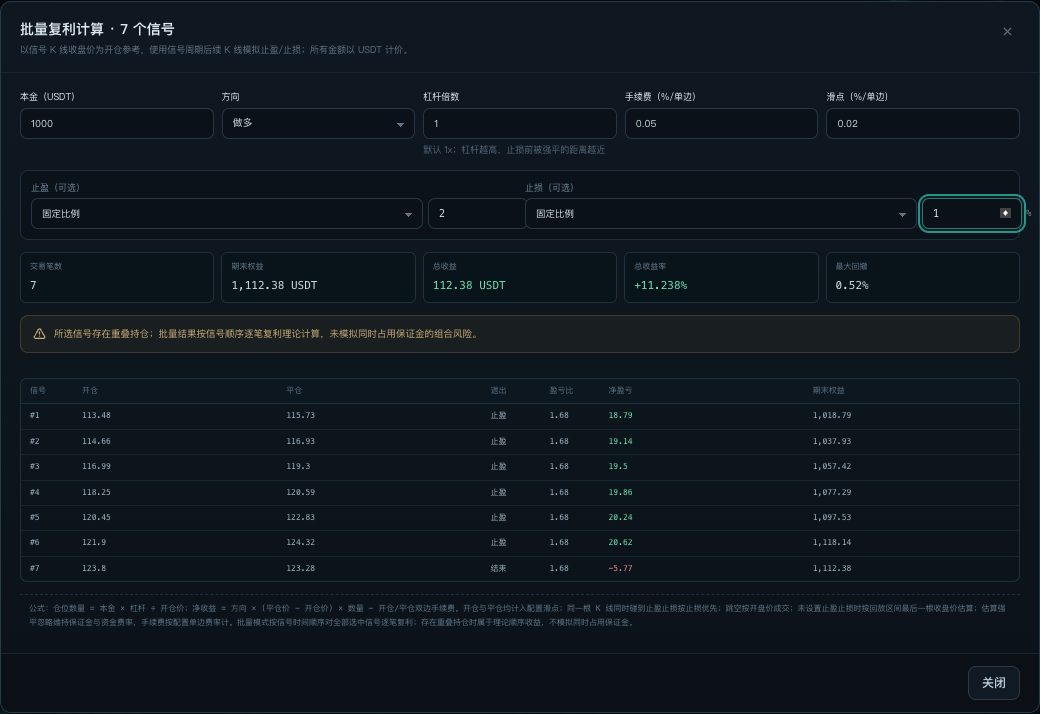
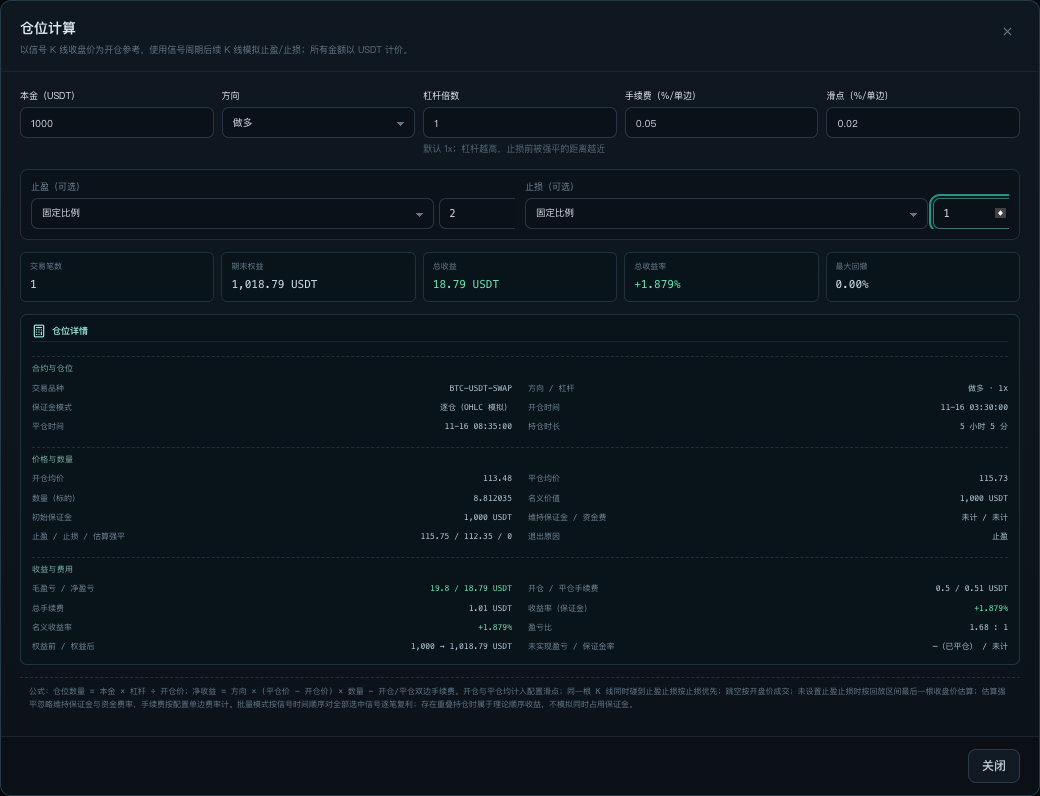
feat(positions): expose complete exchange-style position details

diff --git a/src/web/components/PositionCalculatorModal.tsx b/src/web/components/PositionCalculatorModal.tsx
@@ -40,6 +40,32 @@ function pct(value: number | null | undefined): string {
   return `${value >= 0 ? '+' : ''}${value.toFixed(3)}%`;
 }
 
+function exitLabel(reason: string): string {
+  return reason === 'target'
+    ? '止盈'
+    : reason === 'stop'
+      ? '止损'
+      : reason === 'liquidation'
+        ? '强平'
+        : reason === 'no-data'
+          ? '无后续K线'
+          : '区间结束';
+}
+
+function durationLabel(durationMs: number): string {
+  const seconds = Math.max(0, Math.round(durationMs / 1000));
+  if (seconds < 60) return `${seconds} 秒`;
+  const hours = Math.floor(seconds / 3600);
+  const minutes = Math.floor((seconds % 3600) / 60);
+  const rest = seconds % 60;
+  if (hours > 0) return `${hours} 小时${minutes ? ` ${minutes} 分` : ''}`;
+  return `${minutes} 分${rest ? ` ${rest} 秒` : ''}`;
+}
+
+function directionLabel(direction: 'long' | 'short'): string {
+  return direction === 'long' ? '做多' : '做空';
+}
+
 function priceSeriesOptions(): { key: SeriesKey; label: string }[] {
   return (Object.keys(SERIES_CATALOG) as SeriesKey[])
     .filter((series) => SERIES_CATALOG[series].unit === 'price')
@@ -209,29 +235,63 @@ export function PositionCalculatorModal({
               <div className="position-skipped">跳过 {calculation.skipped.length} 条：{calculation.skipped.map((item) => `#${item.index + 1}${item.reason === 'overlap' ? '（重叠）' : '（权益不足）'}`).join('、')}</div>
             ) : null}
 
-            {calculation.trades.length === 1 && !isBatch ? (
-              <div className="position-single" data-testid="position-calc-single">
-                <div className="position-single-head"><Calculator size={14} /> 单笔结果</div>
-                <div className="position-kv"><span>开仓 / 平仓</span><strong>{money(calculation.trades[0].entryPrice)} → {money(calculation.trades[0].exitPrice)}</strong></div>
-                <div className="position-kv"><span>数量 / 名义仓位</span><strong>{formatNumber(calculation.trades[0].quantity, 6)} / {money(calculation.trades[0].notional)} USDT</strong></div>
-                <div className="position-kv"><span>退出原因</span><strong>{calculation.trades[0].exitReason === 'target' ? '止盈' : calculation.trades[0].exitReason === 'stop' ? '止损' : calculation.trades[0].exitReason === 'liquidation' ? '强平' : calculation.trades[0].exitReason === 'no-data' ? '无后续K线' : '区间结束'}</strong></div>
-                <div className="position-kv"><span>毛盈亏 / 手续费</span><strong>{money(calculation.trades[0].grossPnl)} / {money(calculation.trades[0].fees)} USDT</strong></div>
-                <div className="position-kv"><span>净盈亏 / 收益率</span><strong className={calculation.trades[0].netPnl >= 0 ? 'positive' : 'negative'}>{money(calculation.trades[0].netPnl)} USDT / {pct(calculation.trades[0].roiPct)}</strong></div>
-                <div className="position-kv"><span>止盈 / 止损 / 估算强平</span><strong>{money(calculation.trades[0].targetPrice)} / {money(calculation.trades[0].stopPrice)} / {money(calculation.trades[0].liquidationPrice)}</strong></div>
-                <div className="position-kv"><span>盈亏比</span><strong>{calculation.trades[0].riskReward === null ? '—' : `${calculation.trades[0].riskReward.toFixed(2)} : 1`}</strong></div>
-                <div className="position-kv"><span>平仓时间</span><strong>{formatDateTime(calculation.trades[0].exitAt)}</strong></div>
-              </div>
-            ) : calculation.trades.length ? (
+            {calculation.trades.length === 1 && !isBatch ? (() => {
+              const trade = calculation.trades[0];
+              return (
+                <div className="position-single" data-testid="position-calc-single">
+                  <div className="position-single-head"><Calculator size={14} /> 仓位详情</div>
+                  <div className="position-single-section">合约与仓位</div>
+                  <div className="position-kv"><span>交易品种</span><strong>{trade.symbol || '—'}</strong></div>
+                  <div className="position-kv"><span>方向 / 杠杆</span><strong>{directionLabel(trade.direction)} · {trade.leverage}x</strong></div>
+                  <div className="position-kv"><span>保证金模式</span><strong>逐仓（OHLC 模拟）</strong></div>
+                  <div className="position-kv"><span>开仓时间</span><strong>{formatDateTime(trade.entryAt)}</strong></div>
+                  <div className="position-kv"><span>平仓时间</span><strong>{formatDateTime(trade.exitAt)}</strong></div>
+                  <div className="position-kv"><span>持仓时长</span><strong>{durationLabel(trade.durationMs)}</strong></div>
+
+                  <div className="position-single-section">价格与数量</div>
+                  <div className="position-kv"><span>开仓均价</span><strong>{money(trade.entryPrice)}</strong></div>
+                  <div className="position-kv"><span>平仓均价</span><strong>{money(trade.exitPrice)}</strong></div>
+                  <div className="position-kv"><span>数量（标的）</span><strong>{formatNumber(trade.quantity, 6)}</strong></div>
+                  <div className="position-kv"><span>标记价格 / 订单类型</span><strong>—（已平仓） / 市价（模拟）</strong></div>
+                  <div className="position-kv"><span>名义价值</span><strong>{money(trade.notional)} USDT</strong></div>
+                  <div className="position-kv"><span>初始保证金</span><strong>{money(trade.initialMargin)} USDT</strong></div>
+                  <div className="position-kv"><span>维持保证金 / 资金费</span><strong>{trade.maintenanceMargin === null ? '未计' : money(trade.maintenanceMargin)} / {trade.fundingFee === null ? '未计' : money(trade.fundingFee)}</strong></div>
+                  <div className="position-kv"><span>止盈 / 止损 / 估算强平</span><strong>{money(trade.targetPrice)} / {money(trade.stopPrice)} / {money(trade.liquidationPrice)}</strong></div>
+                  <div className="position-kv"><span>退出原因</span><strong>{exitLabel(trade.exitReason)}</strong></div>
+
+                  <div className="position-single-section">收益与费用</div>
+                  <div className="position-kv"><span>毛盈亏 / 净盈亏</span><strong className={trade.netPnl >= 0 ? 'positive' : 'negative'}>{money(trade.grossPnl)} / {money(trade.netPnl)} USDT</strong></div>
+                  <div className="position-kv"><span>开仓 / 平仓手续费</span><strong>{money(trade.openFee)} / {money(trade.closeFee)} USDT</strong></div>
+                  <div className="position-kv"><span>总手续费</span><strong>{money(trade.fees)} USDT</strong></div>
+                  <div className="position-kv"><span>收益率（保证金）</span><strong className={trade.roiPct >= 0 ? 'positive' : 'negative'}>{pct(trade.roiPct)}</strong></div>
+                  <div className="position-kv"><span>名义收益率</span><strong className={trade.pnlOnNotionalPct >= 0 ? 'positive' : 'negative'}>{pct(trade.pnlOnNotionalPct)}</strong></div>
+                  <div className="position-kv"><span>盈亏比</span><strong>{trade.riskReward === null ? '—' : `${trade.riskReward.toFixed(2)} : 1`}</strong></div>
+                  <div className="position-kv"><span>权益前 / 权益后</span><strong>{money(trade.equityBefore)} → {money(trade.equityAfter)} USDT</strong></div>
+                  <div className="position-kv"><span>未实现盈亏 / 保证金率</span><strong>—（已平仓） / 未计</strong></div>
+                </div>
+              );
+            })() : calculation.trades.length ? (
+
               <div className="position-trade-table">
-                <div className="position-trade-head"><span>信号</span><span>开仓</span><span>平仓</span><span>退出</span><span>盈亏比</span><span>净盈亏</span><span>期末权益</span></div>
+                <div className="position-trade-head">
+                  <span>信号</span><span>方向/杠杆</span><span>开仓时间</span><span>平仓时间</span>
+                  <span>开仓价</span><span>平仓价</span><span>数量</span><span>名义</span>
+                  <span>手续费</span><span>净盈亏</span><span>收益率</span><span>强平价</span><span>期末权益</span>
+                </div>
                 {calculation.trades.map((trade) => (
                   <div className="position-trade-row" key={`${trade.index}-${trade.triggerAt}`}>
                     <span>#{trade.index + 1}</span>
+                    <span>{directionLabel(trade.direction)} {trade.leverage}x</span>
+                    <span>{formatDateTime(trade.entryAt)}</span>
+                    <span>{formatDateTime(trade.exitAt)}</span>
                     <span>{money(trade.entryPrice)}</span>
                     <span>{money(trade.exitPrice)}</span>
-                    <span>{trade.exitReason === 'target' ? '止盈' : trade.exitReason === 'stop' ? '止损' : trade.exitReason === 'liquidation' ? '强平' : trade.exitReason === 'no-data' ? '无K线' : '结束'}</span>
-                    <span>{trade.riskReward === null ? '—' : `${trade.riskReward.toFixed(2)}`}</span>
+                    <span>{formatNumber(trade.quantity, 6)}</span>
+                    <span>{money(trade.notional)}</span>
+                    <span>{money(trade.fees)}</span>
                     <span className={trade.netPnl >= 0 ? 'positive' : 'negative'}>{money(trade.netPnl)}</span>
+                    <span className={trade.roiPct >= 0 ? 'positive' : 'negative'}>{pct(trade.roiPct)}</span>
+                    <span>{money(trade.liquidationPrice)}</span>
                     <span>{money(trade.equityAfter)}</span>
                   </div>
                 ))}

diff --git a/src/web/app.css b/src/web/app.css
@@ -564,14 +564,14 @@ h1,h2,h3,p{margin-top:0}
 .position-config-grid{display:grid;grid-template-columns:repeat(5,minmax(0,1fr));gap:8px}
 .position-config-grid .form-field{font-size:9px;gap:4px}
 .position-config-grid .input,.position-config-grid .select{height:31px;font-size:10px;min-width:0;width:100%}
-.position-exits{display:grid;grid-template-columns:1fr 1fr;gap:10px;padding:10px;border:1px solid #1d303b;border-radius:8px;background:rgba(7,14,20,.45)}
-.position-exit-control{min-width:0}
+.position-exits{display:grid;grid-template-columns:1fr 1fr;gap:10px;padding:10px;border:1px solid #1d303b;border-radius:8px;background:rgba(7,14,20,.45);min-width:0}
+.position-exit-control{min-width:0;overflow:hidden}
 .position-exit-control .form-label{display:block;margin-bottom:4px;font-size:9px;color:#6d8697}
 .position-exit-row{display:flex;align-items:center;gap:5px;min-width:0}
 .position-exit-row .select{height:31px;font-size:9.5px;min-width:0;flex:1 1 auto}
-.position-exit-row .input{height:31px;width:120px;font-size:10px}
+.position-exit-row .input{height:31px;width:84px;flex:0 0 84px;font-size:10px}
 .position-input-suffix{display:flex;align-items:center;gap:4px;color:#7993a3;font-family:var(--mono);font-size:9px;min-width:0}
-.position-input-suffix .input{width:100px}
+.position-input-suffix .input{width:84px}
 .position-loading{display:flex;align-items:center;gap:6px;color:#9b825d;font-family:var(--mono);font-size:9px}
 .position-summary{display:grid;grid-template-columns:repeat(5,minmax(0,1fr));gap:7px}
 .position-summary>div{display:flex;flex-direction:column;gap:3px;padding:8px 9px;border:1px solid #1e323e;border-radius:6px;background:#09131a}
@@ -580,10 +580,12 @@ h1,h2,h3,p{margin-top:0}
 .positive{color:#6de0ad!important}.negative{color:#f08b92!important}
 .position-single{border:1px solid #1e323e;border-radius:7px;background:#09131a;padding:9px 11px;display:grid;grid-template-columns:1fr 1fr;gap:5px 16px}
 .position-single-head{grid-column:1/-1;display:flex;align-items:center;gap:6px;color:#9fe8dd;font-size:9px;font-weight:550;padding-bottom:3px;border-bottom:1px solid #162832;margin-bottom:2px}
+.position-single-section{grid-column:1/-1;margin:7px 0 1px;color:#7fb3ac;font-family:var(--mono);font-size:8px;letter-spacing:.03em;border-top:1px dashed #1b313c;padding-top:6px}
+.position-single-section:first-of-type{border-top:0;padding-top:0}
 .position-kv{display:flex;justify-content:space-between;gap:9px;font-family:var(--mono);font-size:8px;color:#708899;padding:1px 0}
 .position-kv strong{color:#aec6d3;font-weight:400;text-align:right}
-.position-trade-table{border:1px solid #1e323e;border-radius:7px;overflow:auto;max-height:280px}
-.position-trade-head,.position-trade-row{display:grid;grid-template-columns:45px 1fr 1fr 52px 52px 1fr 1fr;gap:7px;padding:6px 9px;font-family:var(--mono);font-size:8px;align-items:center}
+.position-trade-table{border:1px solid #1e323e;border-radius:7px;overflow:auto;max-height:320px;scrollbar-gutter:stable}
+.position-trade-head,.position-trade-row{display:grid;grid-template-columns:38px 54px 86px 86px 60px 60px 66px 68px 60px 66px 52px 60px 68px;gap:6px;padding:6px 8px;font-family:var(--mono);font-size:7.6px;align-items:center;min-width:880px}
 .position-trade-head{position:sticky;top:0;background:#0c1720;color:#5d7587;border-bottom:1px solid #1b303b}
 .position-trade-row{border-bottom:1px solid #142630;color:#9db3c1}
 .position-trade-row:last-child{border-bottom:0}

diff --git a/src/server/positionCalculator.ts b/src/server/positionCalculator.ts
@@ -151,6 +151,7 @@ function simulateTrade(
   timeframeMs: number,
   endTime: number,
   equityBefore: number,
+  optionsSymbol = '',
 ): PositionTradeResult {
   const direction = config.direction;
   const entryAt = trigger.barCloseTime > 0 ? trigger.barCloseTime : trigger.triggerAt;
@@ -236,7 +237,9 @@ function simulateTrade(
 
   const exitPrice = exitWithSlippage(rawExit, direction, config.slippagePct);
   const grossPnl = direction === 'long' ? (exitPrice - entryPrice) * quantity : (entryPrice - exitPrice) * quantity;
-  const fees = feeAmount(quantity, entryPrice, config.feeRatePct) + feeAmount(quantity, exitPrice, config.feeRatePct);
+  const openFee = feeAmount(quantity, entryPrice, config.feeRatePct);
+  const closeFee = feeAmount(quantity, exitPrice, config.feeRatePct);
+  const fees = openFee + closeFee;
   let netPnl = grossPnl - fees;
   let equityAfter = equityBefore + netPnl;
   if (equityAfter < 0) {
@@ -246,12 +249,20 @@ function simulateTrade(
   }
   return {
     index: 0,
+    symbol: optionsSymbol,
+    direction,
+    leverage: config.leverage,
+    marginMode: 'isolated',
     triggerAt: trigger.triggerAt,
     entryAt,
+    exitAt,
+    durationMs: Math.max(0, exitAt - entryAt),
     entryPrice,
     quantity,
     notional: quantity * entryPrice,
-    exitAt,
+    initialMargin: equityBefore,
+    maintenanceMargin: null,
+    fundingFee: null,
     exitPrice,
     exitReason: reason,
     targetPrice,
@@ -261,9 +272,12 @@ function simulateTrade(
     riskReward,
     liquidationPrice,
     grossPnl,
+    openFee,
+    closeFee,
     fees,
     netPnl,
     roiPct: (netPnl / equityBefore) * 100,
+    pnlOnNotionalPct: quantity * entryPrice > 0 ? (netPnl / (quantity * entryPrice)) * 100 : 0,
     equityBefore,
     equityAfter,
   };
@@ -276,6 +290,7 @@ export function calculatePositions(options: {
   timeframeMs: number;
   endTime: number;
   config: PositionCalculatorConfig;
+  symbol?: string;
 }): PositionCalculationResult {
   const { triggers, candles, config } = options;
   validatePositionConfig(config);
@@ -303,7 +318,7 @@ export function calculatePositions(options: {
       continue;
     }
     if (item.trigger.triggerAt < lastExitAt) hasOverlap = true;
-    const trade = simulateTrade(item.trigger, candles, config, options.timeframeMs, options.endTime, equity);
+    const trade = simulateTrade(item.trigger, candles, config, options.timeframeMs, options.endTime, equity, options.symbol);
     trade.index = item.index;
     trades.push(trade);
     equity = trade.equityAfter;

diff --git a/src/shared/types.ts b/src/shared/types.ts
@@ -506,13 +506,25 @@ export type PositionExitReason = 'target' | 'stop' | 'end' | 'liquidation' | 'no
 
 export interface PositionTradeResult {
   index: number;
+  /** Symbol of the replayed instrument. */
+  symbol: string;
+  direction: PositionDirection;
+  leverage: number;
+  marginMode: 'isolated';
   triggerAt: number;
   entryAt: number;
+  exitAt: number;
+  durationMs: number;
   entryPrice: number;
+  exitPrice: number;
   quantity: number;
   notional: number;
-  exitAt: number;
-  exitPrice: number;
+  /** Allocated margin for this trade. */
+  initialMargin: number;
+  /** Not modelled by this OHLC calculator. */
+  maintenanceMargin: number | null;
+  /** Not modelled by this OHLC calculator. */
+  fundingFee: number | null;
   exitReason: PositionExitReason;
   targetPrice: number | null;
   stopPrice: number | null;
@@ -521,9 +533,14 @@ export interface PositionTradeResult {
   riskReward: number | null;
   liquidationPrice: number;
   grossPnl: number;
+  openFee: number;
+  closeFee: number;
   fees: number;
   netPnl: number;
+  /** Return on allocated margin. */
   roiPct: number;
+  /** Net PnL as a percentage of opening notional. */
+  pnlOnNotionalPct: number;
   equityBefore: number;
   equityAfter: number;
 }

diff --git a/tests/integration/rule-replay.test.ts b/tests/integration/rule-replay.test.ts
@@ -242,6 +242,20 @@ describe('saved rule historical replay', () => {
     expect(one.body.calculation.trades[0].entryPrice).toBeGreaterThan(0);
     expect(Number.isFinite(one.body.calculation.trades[0].netPnl)).toBe(true);
     expect(one.body.calculation.trades[0].equityBefore).toBe(1_000);
+    expect(one.body.calculation.trades[0]).toMatchObject({
+      symbol,
+      direction: 'long',
+      leverage: 5,
+      marginMode: 'isolated',
+      initialMargin: 1_000,
+      maintenanceMargin: null,
+      fundingFee: null,
+    });
+    expect(one.body.calculation.trades[0].entryAt).toBeGreaterThan(0);
+    expect(one.body.calculation.trades[0].exitAt).toBeGreaterThanOrEqual(one.body.calculation.trades[0].entryAt);
+    expect(one.body.calculation.trades[0].durationMs).toBeGreaterThanOrEqual(0);
+    expect(one.body.calculation.trades[0].openFee + one.body.calculation.trades[0].closeFee)
+      .toBeCloseTo(one.body.calculation.trades[0].fees, 8);
 
     const batch = await jsonRequest(runtime.runtime, {
       method: 'POST',

diff --git a/tests/e2e/app.spec.ts b/tests/e2e/app.spec.ts
@@ -506,6 +506,11 @@ test.describe.serial('Market Sentinel system flow', () => {
     await expect(modal.getByText('仓位计算', { exact: true })).toBeVisible();
     await expect(modal.getByTestId('position-calc-summary')).toBeVisible({ timeout: 15_000 });
     await expect(modal.getByTestId('position-calc-single')).toContainText('净盈亏');
+    await expect(modal.getByTestId('position-calc-single')).toContainText('开仓时间');
+    await expect(modal.getByTestId('position-calc-single')).toContainText('平仓时间');
+    await expect(modal.getByTestId('position-calc-single')).toContainText('总手续费');
+    await expect(modal.getByTestId('position-calc-single')).toContainText('收益率（保证金）');
+    await expect(modal.getByTestId('position-calc-single')).toContainText('估算强平');
     const exits = modal.locator('.position-exit-control');
     await exits.nth(0).locator('select').selectOption('percent');
     await exits.nth(0).locator('input[type="number"]').fill('2');

diff --git a/tests/unit/position-calculator.test.ts b/tests/unit/position-calculator.test.ts
@@ -73,9 +73,15 @@ describe('position calculator', () => {
     expect(trade.exitPrice).toBe(110);
     expect(trade.exitReason).toBe('target');
     expect(trade.grossPnl).toBeCloseTo(500, 8);
+    expect(trade.openFee + trade.closeFee).toBeCloseTo(trade.fees, 8);
     expect(trade.fees).toBeCloseTo(5.25, 8);
     expect(trade.netPnl).toBeCloseTo(494.75, 8);
     expect(trade.roiPct).toBeCloseTo(49.475, 8);
+    expect(trade.pnlOnNotionalPct).toBeCloseTo((494.75 / 5000) * 100, 8);
+    expect(trade.initialMargin).toBe(1000);
+    expect(trade.durationMs).toBe(300_000);
+    expect(trade.maintenanceMargin).toBeNull();
+    expect(trade.fundingFee).toBeNull();
     expect(trade.riskReward).toBeCloseTo(494.75 / 504.75, 8);
     expect(result.finalEquity).toBeCloseTo(1494.75, 8);
   });

diff --git a/src/server/api/routes.ts b/src/server/api/routes.ts
@@ -519,6 +519,7 @@ export async function registerApiRoutes(app: FastifyInstance, services: ApiServi
         timeframeMs: tfMs,
         endTime,
         config,
+        symbol: replay.symbol,
       });
       return { calculation };
     } catch (error) {

diff --git a/docs/API.md b/docs/API.md
@@ -203,7 +203,7 @@ curl -X POST http://127.0.0.1:8787/api/rules \
 - `target`/`stop` 的 `mode`：`none | price | percent | indicator`。`indicator` 可取信号周期上的任意价格类指标（价格/Bollinger 等），服务端按默认参数在触发 K 线计算，不依赖图表周期。
 - `price` 为绝对价格；`percent` 为相对开仓价的正百分比；`indicator` 的 `series` 必须是价格类指标，并取该信号条件快照里的值。
 - 默认单边手续费 0.05%、单边滑点 0.02%；手续费和滑点均参与净收益和盈亏比计算。
-- 批量按信号时间排序复利；所有选中信号都会计算。持仓时间重叠时会返回警告，说明这是逐笔理论复利、未模拟同时占用保证金；权益归零后的信号才会进入 `skipped`。每条交易计算开仓/平仓价、数量、名义仓位、退出原因、毛/净盈亏、手续费、收益率、盈亏比和估算强平价。
[1 lines of base64/hex data omitted]
 - 同一根 K 线同时触发止盈止损按止损优先；跳空按开盘价；未设置止盈止损时按区间最后收盘价；强平按逐仓保证金上限截断；未计资金费率、维持保证金和手续费等级差异。
 
 返回 `{ calculation: PositionCalculationResult }`。配置/信号序号不合法返回 400，回放或信号周期数据不存在返回 404/422。

diff --git a/README.md b/README.md
@@ -310,12 +310,14 @@ npm start
 在单次回放中，点击 K 线信号标记、清单中的计算器图标，或勾选多条信号后点击“仓位计算”打开。
 
 - 输入本金、方向、杠杆倍数、单边手续费率、单边滑点和可选的止盈/止损；止盈止损支持固定价格、固定比例或信号条件中的价格类指标值。
-- 单笔结果展示开仓/平仓价、数量、名义仓位、退出原因、毛/净盈亏、手续费、收益率、盈亏比、估算强平价。
+- 单笔结果展示交易品种、方向/杠杆、保证金模式、开仓/平仓时间、持仓时长、开仓/平仓价、数量、名义价值、初始保证金、维持保证金/资金费（未计）、止盈/止损/估算强平价、退出原因、开/平仓手续费拆分、总手续费、毛/净盈亏、保证金收益率、名义收益率、盈亏比和权益前后。
 - 批量模式按信号时间顺序使用当前权益复利，**所有选中信号都会计算**；若持仓时间重叠，会明确提示这是逐笔理论复利，未模拟同时占用保证金。
 - 使用信号周期后续已收盘 K 线模拟；同一根 K 线同时触及止盈和止损时按止损优先，跳空按开盘价成交。未设置止盈/止损时按区间最后一根收盘价估算。
 - 公式：数量 = 本金 × 杠杆 ÷ 开仓价；净收益 = 方向 × (平仓价 − 开仓价) × 数量 − 双边手续费；开平仓均计入滑点。未计资金费率、维持保证金和手续费等级差异，结果不是实盘成交承诺。
 
 ![仓位计算器](docs/screenshots/replay-position-calculator.png)
+
+![批量仓位表格](docs/screenshots/replay-position-batch.png)
 
 ### 回放数据一致性
 

diff --git a/CHANGELOG.md b/CHANGELOG.md
@@ -12,7 +12,7 @@ and this project adheres to [Semantic Versioning](https://semver.org/spec/v2.0.0
 - Rule editor: a separate “save keeping status” action that stays on the editor and preserves whether the rule is enabled or disabled; long rule names truncate cleanly while list action buttons stay on one row.
 - Custom historical replay periods: inclusive date ranges plus daily time windows (with timezone, all-day and overnight support), presets/defaults, and an async job pipeline.
 - Batched OKX history paging (100 bars/request, 130ms request gate) with local SQLite persistence; async jobs expose phase, conservative ETA and reload recovery. Strict custom ranges reject gaps except a late current candle.
-- Position calculator on replay signals: single-point and batch compounding, configurable capital/direction/leverage, price/percent/indicator take-profit and stop-loss, fees, slippage, risk/reward, liquidation estimate, all-selected sequential compounding and overlap warnings.
+- Position calculator on replay signals: single-point and batch compounding, configurable capital/direction/leverage, price/percent/indicator take-profit and stop-loss, fees, slippage, risk/reward, liquidation estimate, all-selected sequential compounding and overlap warnings; results now expose exchange-style position fields including entry/exit times, duration, notional, initial margin, fee split, ROI and equity changes.
 - Chart marker/row selection integration for position calculations, including desktop and mobile layouts.
 
 - Configurable market chart indicators: independently toggle BOLL, volume, KDJ, RSI and MACD, adjust their parameters in the chart panel, and persist the selection in the browser.

diff --git a/TEST_REPORT.md b/TEST_REPORT.md
@@ -158,7 +158,7 @@ E2E 同时检查浏览器 console error 与 page error，最终为 0。
 
 - 线性 USDT 本位公式：数量 = 本金 × 杠杆 ÷ 开仓价；净收益 = 方向 × (平仓 − 开仓) × 数量 − 双边手续费；开平仓均计入滑点。
 - 支持固定价格、百分比和信号条件中的价格类指标值作为止盈/止损；同一根 K 线同时触发按止损优先，跳空按开盘价，未设置退出按区间末收盘，强平按保证金上限截断。
-- 单笔/批量复利、全部选中信号逐笔计算、止损/强平边界、盈亏比、最大回撤、强平与错误参数均有单测和 API 测试。
+- 单笔/批量复利、全部选中信号逐笔计算、止损/强平边界、盈亏比、最大回撤、完整仓位字段（开平仓时间、手续费拆分、初始保证金、收益率、权益前后）均有单测和 API 测试。
 - 批量按信号时间顺序使用当前权益复利；存在重叠持仓时返回理论顺序计算警告，权益归零后的信号才跳过。
 
 ### 数据与可靠性
